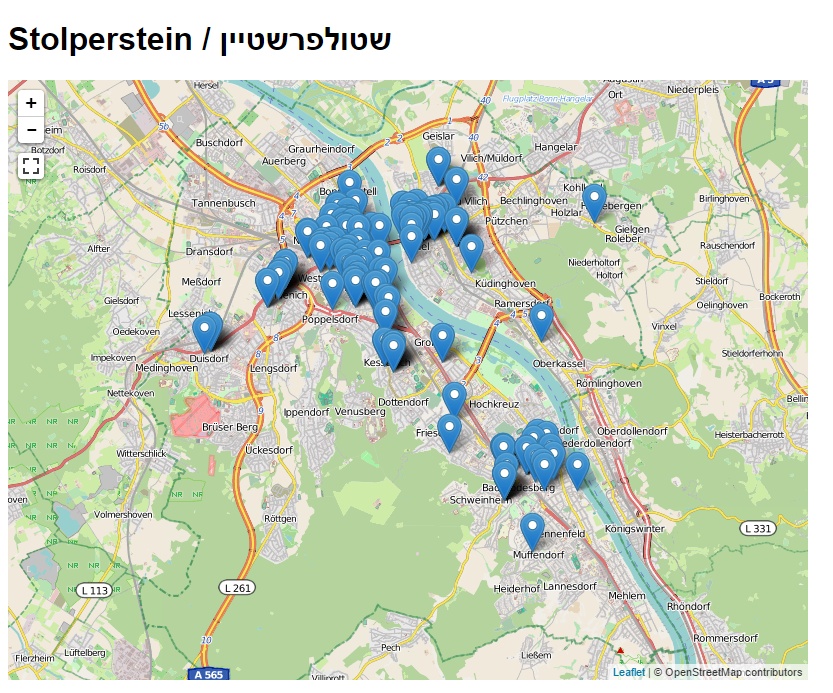
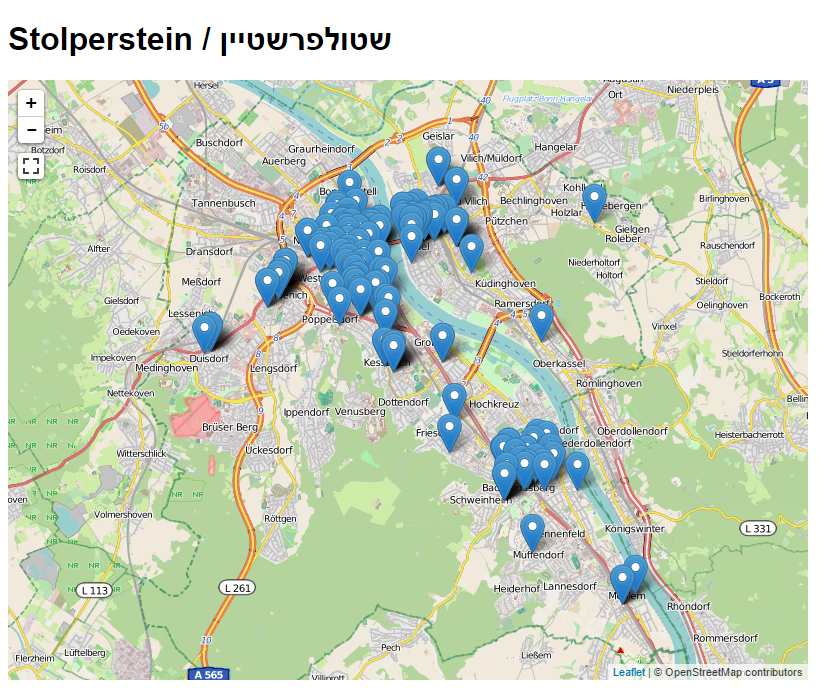
Dokumentation angepasst

diff --git a/README.md b/README.md
@@ -6,16 +6,14 @@ die Bonner Stolpersteine in einem möglichst offenen Format digital
 aufzubereiten. Auf diese Weise sollen die Schicksale, für die diese
 Stolpersteine stehen, auch in der der virtuellen Datenwelt präsent werden.
 
-
 In einem ersten Schritt sind SQL-Skripte entstanden, die eine SQLite3-Datenbank
 mit den Stolpersteinen befüllen können.
 
 Der Code einer Internetseite, die diese Stolpersteine mit Hilfe von Leaflet auf
 einer Karte von Bonn anzeigt, nun ebenfalls fertig.
 
-Die angezeigten Marker werden aktuell noch nicht automatisch aus der Datenbasis
-erzeugt und sind daher noch nicht auf dem aktuellen Stand. Für einen ersten Eindruck
-genügen die Daten jedoch völlig:
+Die angezeigten Marker werden jetzt automatisch aus der Datenbasis erzeugt. So
+sieht der aktuelle Stand der Dinge aus:
 
 ![Screenshot](screenshot.png)
 
